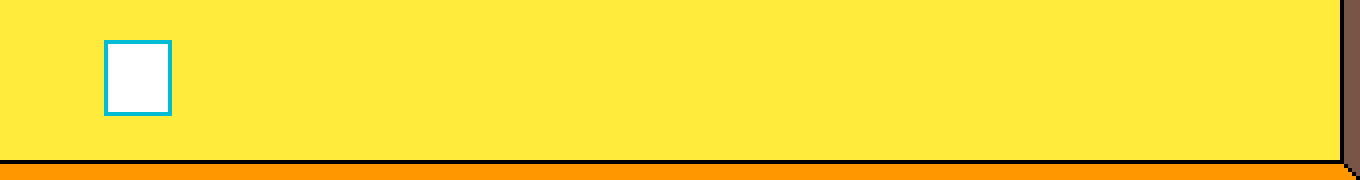
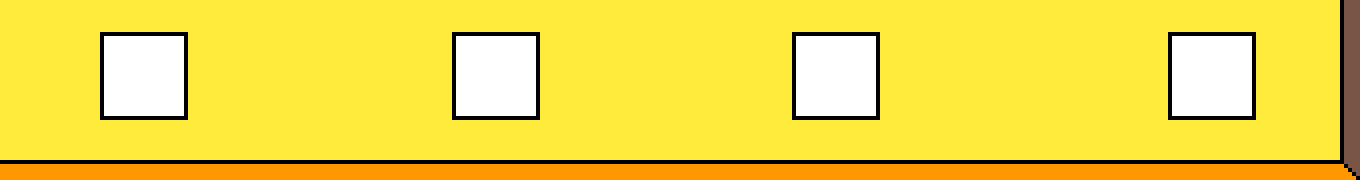
floor change

diff --git a/src/pane/FloorZone.java b/src/pane/FloorZone.java
@@ -1,5 +1,6 @@
 package pane;
 
+import entity.building.Hotel;
 import javafx.scene.layout.Background;
 import javafx.scene.layout.BackgroundFill;
 import javafx.scene.layout.BackgroundRepeat;
@@ -10,7 +11,8 @@ import sharedObject.RenderableHolder;
 import utils.Config;
 
 public class FloorZone extends GridPane {
-	
+	private Hotel hotel = new Hotel();
+
 	public FloorZone() {
 		this.setPrefSize((Config.UNIT * 8.5), (Config.UNIT * (1.125 * 7)));
 //		this.setBackground(new Background(new BackgroundFill(Color.RED, null, null)));
